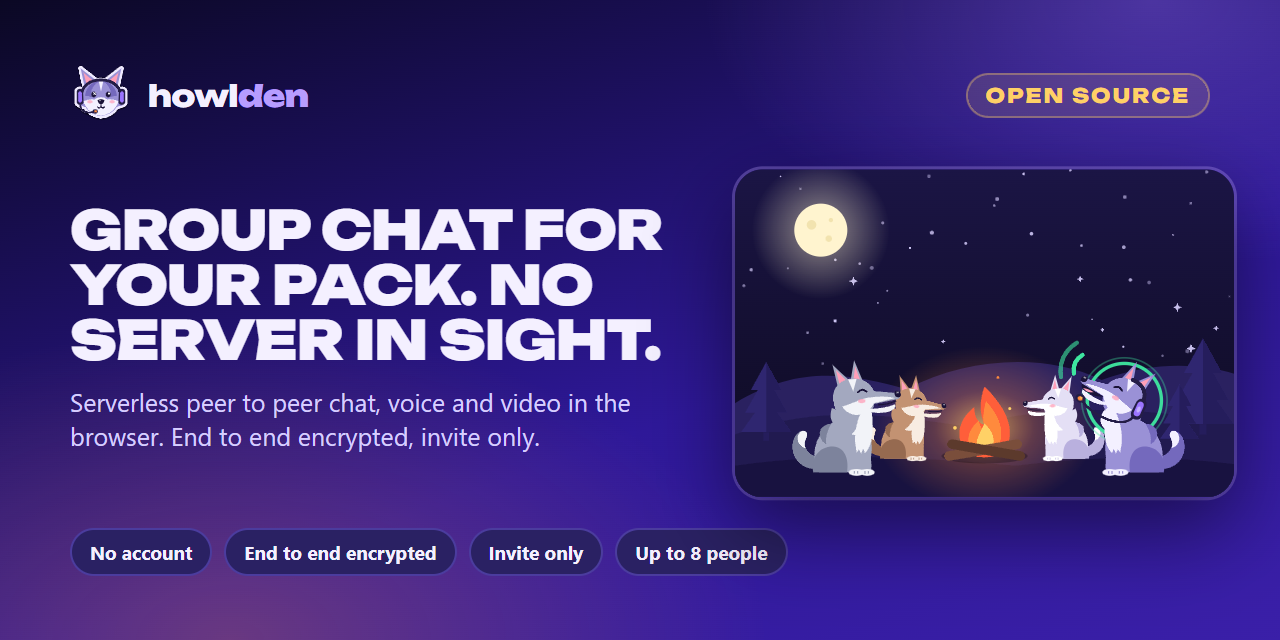
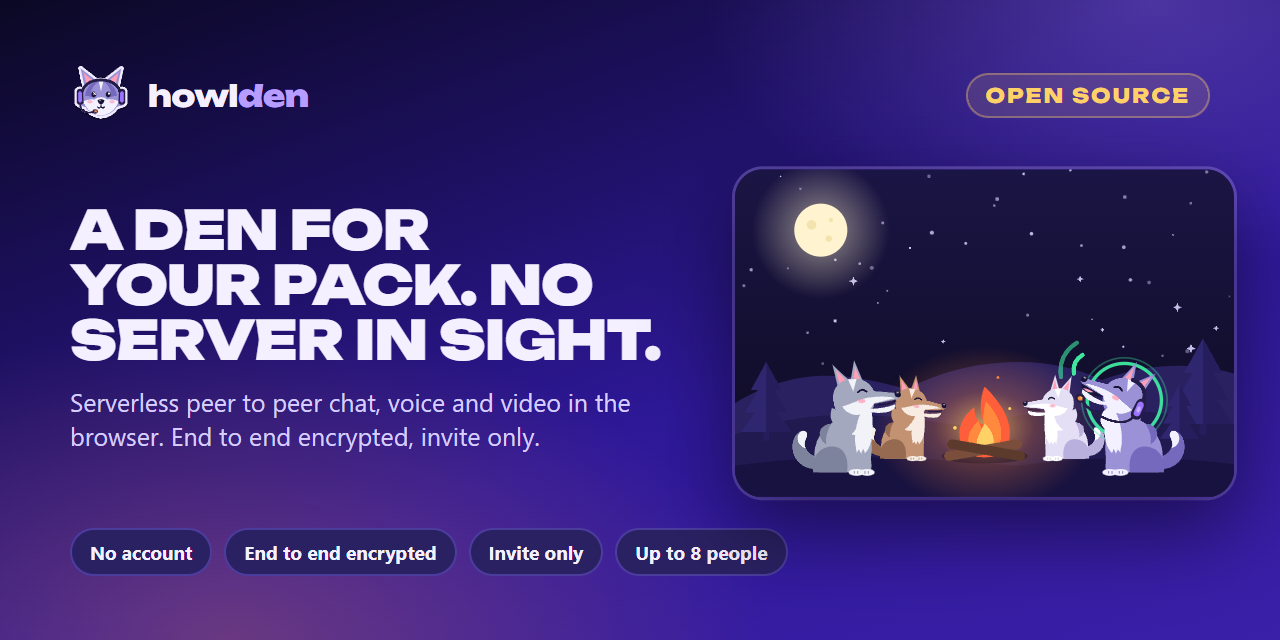
Reword the landing headlines in the den's own voice

Changed region(s): [[0.0312, 0.3125, 0.5312, 0.4062]]

diff --git a/docs/index.html b/docs/index.html
@@ -254,7 +254,7 @@
   <div class="hx-sky" aria-hidden="true"><img class="float f-moon" src="assets/art/objects/moon.svg" alt="" loading="lazy"><img class="float f-lock" src="assets/art/objects/lock.svg" alt="" loading="lazy"><img class="float f-pad" src="assets/art/objects/gamepad.svg" alt="" loading="lazy"><img class="float f-paw" src="assets/art/objects/paw.svg" alt="" loading="lazy"><img class="float f-bubble" src="assets/art/objects/bubble.svg" alt="" loading="lazy"><img class="float f-head" src="assets/art/objects/headset.svg" alt="" loading="lazy"><img class="float f-flame" src="assets/art/objects/flame.svg" alt="" loading="lazy"><img class="float f-star1" src="assets/art/objects/star.svg" alt="" loading="lazy"><img class="float f-star2" src="assets/art/objects/star.svg" alt="" loading="lazy"></div>
   <div class="wrap hx-grid">
     <div class="hx-copy">
-      <h1 id="hero-title" class="mega">Group chat for your pack. <span class="mega-glow">No server in sight.</span></h1>
+      <h1 id="hero-title" class="mega">A den for your pack. <span class="mega-glow">No server in sight.</span></h1>
       <p class="hx-lede">howlden is a den for you and your friends: text and voice channels, video and screen share, right in your browser. No email, no password, no phone. Invite your pack with a link or a QR code and everything flows straight between you, end to end encrypted.</p>
       <div class="hx-cta">
         <a href="app/" class="btn-big btn-white"><svg class="hi" aria-hidden="true" focusable="false"><use href="#k-den"/></svg>Open howlden in your browser</a>
@@ -367,7 +367,7 @@
   <div class="mk-tiles"><div class="mk-tile" :class="{ speaking: PV.speaking === 'luna' }"><img src="assets/art/avatars/luna.svg" width="64" height="64" alt="" loading="lazy"><span>Luna</span></div><div class="mk-tile" :class="{ speaking: PV.speaking === 'fang' }"><img src="assets/art/avatars/fang.svg" width="64" height="64" alt="" loading="lazy"><span>Fang</span></div><div class="mk-tile" :class="{ speaking: PV.speaking === 'pip' }"><img src="assets/art/avatars/pip.svg" width="64" height="64" alt="" loading="lazy"><span>Pip</span></div></div>
   <div class="mk-bar"><span><svg class="ic" aria-hidden="true" focusable="false"><use href="#i-mic"/></svg></span><span><svg class="ic" aria-hidden="true" focusable="false"><use href="#i-video"/></svg></span><span class="on"><svg class="ic" aria-hidden="true" focusable="false"><use href="#i-screen"/></svg></span><span class="hang"><svg class="ic" aria-hidden="true" focusable="false"><use href="#i-phone"/></svg></span></div>
 </div></div>
-  <div class="panel-copy"><p class="kicker"><svg class="hi" aria-hidden="true" focusable="false"><use href="#k-screen-share"/></svg>Voice, video, screen share</p><h2 id="share-t" class="mega mega-md">Stream like you share the same couch</h2><p>Share a game, a tab or your whole screen while everyone talks. Turn on cameras, watch the ring light up around whoever speaks. Every stream travels directly between you, sealed with DTLS and SRTP.</p><a href="screen-share-without-app.html" class="more">Screen share without an app<svg class="ic" aria-hidden="true" focusable="false"><use href="#i-arrow"/></svg></a></div>
+  <div class="panel-copy"><p class="kicker"><svg class="hi" aria-hidden="true" focusable="false"><use href="#k-screen-share"/></svg>Voice, video, screen share</p><h2 id="share-t" class="mega mega-md">Show the pack your screen, no server watching</h2><p>Share a game, a tab or your whole screen while the den talks it over. Turn on cameras, watch the ring light up around whoever speaks. Every stream travels directly between you, sealed with DTLS and SRTP.</p><a href="screen-share-without-app.html" class="more">Screen share without an app<svg class="ic" aria-hidden="true" focusable="false"><use href="#i-arrow"/></svg></a></div>
 </section>
 <section id="voice" class="panel" aria-labelledby="voice-t">
   <div class="panel-media tone-fire"><div class="mock mock-voice" aria-hidden="true">
@@ -375,9 +375,9 @@
   <div class="mk-vc busy"><p><svg class="ic" aria-hidden="true" focusable="false"><use href="#i-speaker"/></svg><b>Howl lounge</b><span class="mk-count">3</span></p><p class="mk-vp speaking"><img class="av av-xs" src="assets/art/avatars/luna.svg" width="40" height="40" alt="" loading="lazy"><span>Luna</span></p><p class="mk-vp"><img class="av av-xs" src="assets/art/avatars/fang.svg" width="40" height="40" alt="" loading="lazy"><span>Fang</span></p><p class="mk-vp"><img class="av av-xs" src="assets/art/avatars/nova.svg" width="40" height="40" alt="" loading="lazy"><span>Nova</span><em>Live</em></p></div>
   <div class="mk-vc busy"><p><svg class="ic" aria-hidden="true" focusable="false"><use href="#i-speaker"/></svg><b>Study burrow</b><span class="mk-count">1</span></p><p class="mk-vp"><img class="av av-xs" src="assets/art/avatars/pip.svg" width="40" height="40" alt="" loading="lazy"><span>Pip</span><svg class="ic mk-muted" aria-hidden="true" focusable="false"><use href="#i-micoff"/></svg></p></div>
   <div class="mk-vc"><p><svg class="ic" aria-hidden="true" focusable="false"><use href="#i-speaker"/></svg><b>Quiet cave</b></p></div>
-  <div class="mk-join"><svg class="ic" aria-hidden="true" focusable="false"><use href="#i-speaker"/></svg><span>Click a channel to drop in. Leave whenever you like.</span></div>
+  <div class="mk-join"><svg class="ic" aria-hidden="true" focusable="false"><use href="#i-speaker"/></svg><span>One click to take a seat by the fire. One click to slip away.</span></div>
 </div></div>
-  <div class="panel-copy"><p class="kicker"><svg class="hi" aria-hidden="true" focusable="false"><use href="#k-voice-channel"/></svg>Voice channels</p><h2 id="voice-t" class="mega mega-md">Drop into voice anytime</h2><p>Voice channels are always open. See who is already talking, click to join, click to leave. No calling, no ringing, no scheduling. Mute and deafen are one click away, and a call works just as well with one friend as with the whole pack.</p><a href="voice-chat-in-browser-no-download.html" class="more">Voice chat with no download<svg class="ic" aria-hidden="true" focusable="false"><use href="#i-arrow"/></svg></a></div>
+  <div class="panel-copy"><p class="kicker"><svg class="hi" aria-hidden="true" focusable="false"><use href="#k-voice-channel"/></svg>Voice channels</p><h2 id="voice-t" class="mega mega-md">Take a seat by the fire</h2><p>Voice channels are campfires that never go out. See which wolves are already howling, click to sit down, click to leave. No ringing, no meeting links, no scheduling. Mute and deafen are one click away, and a call works just as well with one friend as with the whole pack.</p><a href="voice-chat-in-browser-no-download.html" class="more">Voice chat with no download<svg class="ic" aria-hidden="true" focusable="false"><use href="#i-arrow"/></svg></a></div>
 </section>
 <section id="around" class="panel flip" aria-labelledby="around-t">
   <div class="panel-media tone-night"><div class="mock mock-members" aria-hidden="true">
@@ -390,11 +390,11 @@
   <p class="mk-cat">Offline</p>
   <p class="mk-mem off"><span class="mk-avw"><img class="av av-sm" src="assets/art/avatars/fang.svg" width="40" height="40" alt="" loading="lazy"></span><span><b>Moss</b><small>Last seen yesterday</small></span></p>
 </div></div>
-  <div class="panel-copy"><p class="kicker"><svg class="hi" aria-hidden="true" focusable="false"><use href="#k-pack"/></svg>Members</p><h2 id="around-t" class="mega mega-md">See who is around</h2><p>The member list shows who is online, who is in voice, who is sharing a screen and who stepped away. A den holds up to 8, so it always feels like your people, never a crowd.</p><a href="#mesh" class="more">Why a den holds 8<svg class="ic" aria-hidden="true" focusable="false"><use href="#i-arrow"/></svg></a></div>
+  <div class="panel-copy"><p class="kicker"><svg class="hi" aria-hidden="true" focusable="false"><use href="#k-pack"/></svg>Members</p><h2 id="around-t" class="mega mega-md">Know your whole pack at a glance</h2><p>The member list shows which wolves are in the den, who is howling in voice, who is sharing a screen and who wandered off. A den holds up to 8, invite only, so every name on the list is someone you let in.</p><a href="#mesh" class="more">Why a den holds 8<svg class="ic" aria-hidden="true" focusable="false"><use href="#i-arrow"/></svg></a></div>
 </section>
 </div>
 
-<div class="marquee" aria-hidden="true"><div class="mq-track"><div class="mq-row"><span>Talk</span><svg class="mq-mark" aria-hidden="true"><use href="#mark"/></svg><span>Play</span><svg class="mq-mark" aria-hidden="true"><use href="#mark"/></svg><span>Hang out</span><svg class="mq-mark" aria-hidden="true"><use href="#mark"/></svg><span>Study</span><svg class="mq-mark" aria-hidden="true"><use href="#mark"/></svg><span>Howl</span><svg class="mq-mark" aria-hidden="true"><use href="#mark"/></svg><span>Share screens</span><svg class="mq-mark" aria-hidden="true"><use href="#mark"/></svg><span>Plan</span><svg class="mq-mark" aria-hidden="true"><use href="#mark"/></svg><span>Laugh</span><svg class="mq-mark" aria-hidden="true"><use href="#mark"/></svg></div><div class="mq-row"><span>Talk</span><svg class="mq-mark" aria-hidden="true"><use href="#mark"/></svg><span>Play</span><svg class="mq-mark" aria-hidden="true"><use href="#mark"/></svg><span>Hang out</span><svg class="mq-mark" aria-hidden="true"><use href="#mark"/></svg><span>Study</span><svg class="mq-mark" aria-hidden="true"><use href="#mark"/></svg><span>Howl</span><svg class="mq-mark" aria-hidden="true"><use href="#mark"/></svg><span>Share screens</span><svg class="mq-mark" aria-hidden="true"><use href="#mark"/></svg><span>Plan</span><svg class="mq-mark" aria-hidden="true"><use href="#mark"/></svg><span>Laugh</span><svg class="mq-mark" aria-hidden="true"><use href="#mark"/></svg></div></div></div>
+<div class="marquee" aria-hidden="true"><div class="mq-track"><div class="mq-row"><span>Howl</span><svg class="mq-mark" aria-hidden="true"><use href="#mark"/></svg><span>Play</span><svg class="mq-mark" aria-hidden="true"><use href="#mark"/></svg><span>Study</span><svg class="mq-mark" aria-hidden="true"><use href="#mark"/></svg><span>Plan</span><svg class="mq-mark" aria-hidden="true"><use href="#mark"/></svg><span>Share screens</span><svg class="mq-mark" aria-hidden="true"><use href="#mark"/></svg><span>Gather the pack</span><svg class="mq-mark" aria-hidden="true"><use href="#mark"/></svg><span>No server</span><svg class="mq-mark" aria-hidden="true"><use href="#mark"/></svg><span>Invite only</span><svg class="mq-mark" aria-hidden="true"><use href="#mark"/></svg></div><div class="mq-row"><span>Howl</span><svg class="mq-mark" aria-hidden="true"><use href="#mark"/></svg><span>Play</span><svg class="mq-mark" aria-hidden="true"><use href="#mark"/></svg><span>Study</span><svg class="mq-mark" aria-hidden="true"><use href="#mark"/></svg><span>Plan</span><svg class="mq-mark" aria-hidden="true"><use href="#mark"/></svg><span>Share screens</span><svg class="mq-mark" aria-hidden="true"><use href="#mark"/></svg><span>Gather the pack</span><svg class="mq-mark" aria-hidden="true"><use href="#mark"/></svg><span>No server</span><svg class="mq-mark" aria-hidden="true"><use href="#mark"/></svg><span>Invite only</span><svg class="mq-mark" aria-hidden="true"><use href="#mark"/></svg></div></div></div>
 
 <div class="panels">
 <section id="account" class="panel" aria-labelledby="account-t">

diff --git a/docs/discord-alternative-without-account.html b/docs/discord-alternative-without-account.html
@@ -171,7 +171,7 @@
     <aside class="side-toc" aria-labelledby="toc-title"><p id="toc-title" class="side-toc-title">On this page</p><ol><li><a href="#why-look">Why people look for a Discord style app with no account</a></li><li><a href="#familiar">What will feel familiar</a></li><li><a href="#approach">The real difference is the approach, not the layout</a></li><li><a href="#give-up">What you give up compared with Discord</a></li><li><a href="#who-it-fits">Who a no account den fits</a></li><li><a href="#game-night">Moving one game night into a den</a></li><li><a href="#try-it">Give it one evening</a></li><li><a href="#faq">Frequently asked questions</a></li></ol></aside>
     <div class="guide-prose">
 <section id="why-look"><h2>Why people look for a Discord style app with no account</h2>
-<p>Discord's layout works. A server with text channels on one side, voice rooms you can drop into, a member list, quick reactions: it is a comfortable way for a group to hang out. So when someone searches for a Discord alternative, they usually do not want a different layout. They want the same feeling without one particular step.</p>
+<p>Discord's layout works. A server with text channels on one side, voice rooms you can join with a click, a member list, quick reactions: it is a comfortable home base for a group. So when someone searches for a Discord alternative, they usually do not want a different layout. They want the same feeling without one particular step.</p>
 <p>The reasons vary. A friend refuses to make yet another account. A cousin is on a borrowed laptop for the weekend. A study group only needs to meet three times before an exam. Someone simply prefers not to tie a phone number or email to a casual chat. In all of these, the account is the friction, not the features.</p>
 <p>howlden keeps the layout and drops the account. You get a <strong>den</strong> instead of a server, and you open it straight from your browser.</p>
 </section>

diff --git a/scripts/site/guides/discord-alternative-without-account.html b/scripts/site/guides/discord-alternative-without-account.html
@@ -18,7 +18,7 @@
 }
 -->
 <section id="why-look"><h2>Why people look for a Discord style app with no account</h2>
-<p>Discord's layout works. A server with text channels on one side, voice rooms you can drop into, a member list, quick reactions: it is a comfortable way for a group to hang out. So when someone searches for a Discord alternative, they usually do not want a different layout. They want the same feeling without one particular step.</p>
+<p>Discord's layout works. A server with text channels on one side, voice rooms you can join with a click, a member list, quick reactions: it is a comfortable home base for a group. So when someone searches for a Discord alternative, they usually do not want a different layout. They want the same feeling without one particular step.</p>
 <p>The reasons vary. A friend refuses to make yet another account. A cousin is on a borrowed laptop for the weekend. A study group only needs to meet three times before an exam. Someone simply prefers not to tie a phone number or email to a casual chat. In all of these, the account is the friction, not the features.</p>
 <p>howlden keeps the layout and drops the account. You get a <strong>den</strong> instead of a server, and you open it straight from your browser.</p>
 </section>

diff --git a/docs/group-video-call-without-account.html b/docs/group-video-call-without-account.html
@@ -197,7 +197,7 @@
 </ul>
 </section>
 <section id="mesh-vs-server"><h2>Mesh or server: picking the right approach</h2>
-<p>Tools like Zoom, Google Meet and Jitsi use a server based approach: each person sends one video stream to a media server, which forwards it to everyone else. That is excellent for big meetings, webinars and classes, and it lets people drop in through a single meeting link with no codes to swap. howlden takes the direct approach, which suits small private groups. Neither is better in general. They are built for different jobs.</p>
+<p>Tools like Zoom, Google Meet and Jitsi use a server based approach: each person sends one video stream to a media server, which forwards it to everyone else. That is excellent for big meetings, webinars and classes, and it lets people join through a single meeting link with no codes to swap. howlden takes the direct approach, which suits small private groups. Neither is better in general. They are built for different jobs.</p>
 <table><thead><tr><th>Question</th><th>Direct mesh (howlden)</th><th>Server based</th></tr></thead><tbody>
 <tr><td>Group size</td><td>Up to 8 people</td><td>Large meetings</td></tr>
 <tr><td>Account needed</td><td>Never</td><td>Depends on the service</td></tr>

diff --git a/scripts/site/guides/group-video-call-without-account.html b/scripts/site/guides/group-video-call-without-account.html
@@ -47,7 +47,7 @@
 </ul>
 </section>
 <section id="mesh-vs-server"><h2>Mesh or server: picking the right approach</h2>
-<p>Tools like Zoom, Google Meet and Jitsi use a server based approach: each person sends one video stream to a media server, which forwards it to everyone else. That is excellent for big meetings, webinars and classes, and it lets people drop in through a single meeting link with no codes to swap. howlden takes the direct approach, which suits small private groups. Neither is better in general. They are built for different jobs.</p>
+<p>Tools like Zoom, Google Meet and Jitsi use a server based approach: each person sends one video stream to a media server, which forwards it to everyone else. That is excellent for big meetings, webinars and classes, and it lets people join through a single meeting link with no codes to swap. howlden takes the direct approach, which suits small private groups. Neither is better in general. They are built for different jobs.</p>
 <table><thead><tr><th>Question</th><th>Direct mesh (howlden)</th><th>Server based</th></tr></thead><tbody>
 <tr><td>Group size</td><td>Up to 8 people</td><td>Large meetings</td></tr>
 <tr><td>Account needed</td><td>Never</td><td>Depends on the service</td></tr>

diff --git a/README.md b/README.md
@@ -27,7 +27,7 @@
 **howlden is a free, open source group chat that runs entirely in your browser, with the layout you know from gaming chat apps: dens (servers), text channels, voice channels, video and screen share.** There is no account and no sign up: you create a local profile (a username, an avatar and an identity key made on your device). You invite friends with a link or a QR code, and everything flows directly between your browsers over WebRTC, end to end encrypted. No server of ours ever sees your messages, voice, video or files. A den holds up to 8 people, or just you and one friend.
 
 <p align="center">
-  <a href="https://kwy404.github.io/howlden/"><img src="https://cdn.jsdelivr.net/gh/kwy404/howlden@main/assets/social-preview.png" width="820" alt="The howlden website: group chat for your pack, no server in sight, with a pack of wolves around a campfire"></a>
+  <a href="https://kwy404.github.io/howlden/"><img src="https://cdn.jsdelivr.net/gh/kwy404/howlden@main/assets/social-preview.png" width="820" alt="The howlden website: a den for your pack, no server in sight, with a pack of wolves around a campfire"></a>
 </p>
 
 ## Table of contents
@@ -57,7 +57,7 @@ Go to **[kwy404.github.io/howlden/app](https://kwy404.github.io/howlden/app/)**,
 | --- | --- |
 | **Dens** | A group space with text channels, voice channels and a member list. Each den is its own private circle of up to 8 people. |
 | **Text channels** | Messages with bold, italic, strike, spoilers, code, quotes, lists and links. Mentions, replies, edits, deletes and reactions. |
-| **Voice channels** | Drop in and talk. A ring lights up around whoever is speaking. Mute and deafen are one click away. |
+| **Voice channels** | Take a seat and howl. A ring lights up around whoever is speaking. Mute and deafen are one click away. |
 | **Video and screen share** | Turn on a camera or share a window, a tab or the whole screen inside any voice channel. |
 | **Files** | Drop a file in the chat and it goes straight from your browser to your friends. Nothing is uploaded anywhere. |
 | **Local profile** | A username, an avatar and a signing key pair (Ed25519 where the browser supports it) made on your device. Your tag, like `luna#7c1f`, comes from that key. Lock it with a PIN, or move it with an encrypted backup file. |
